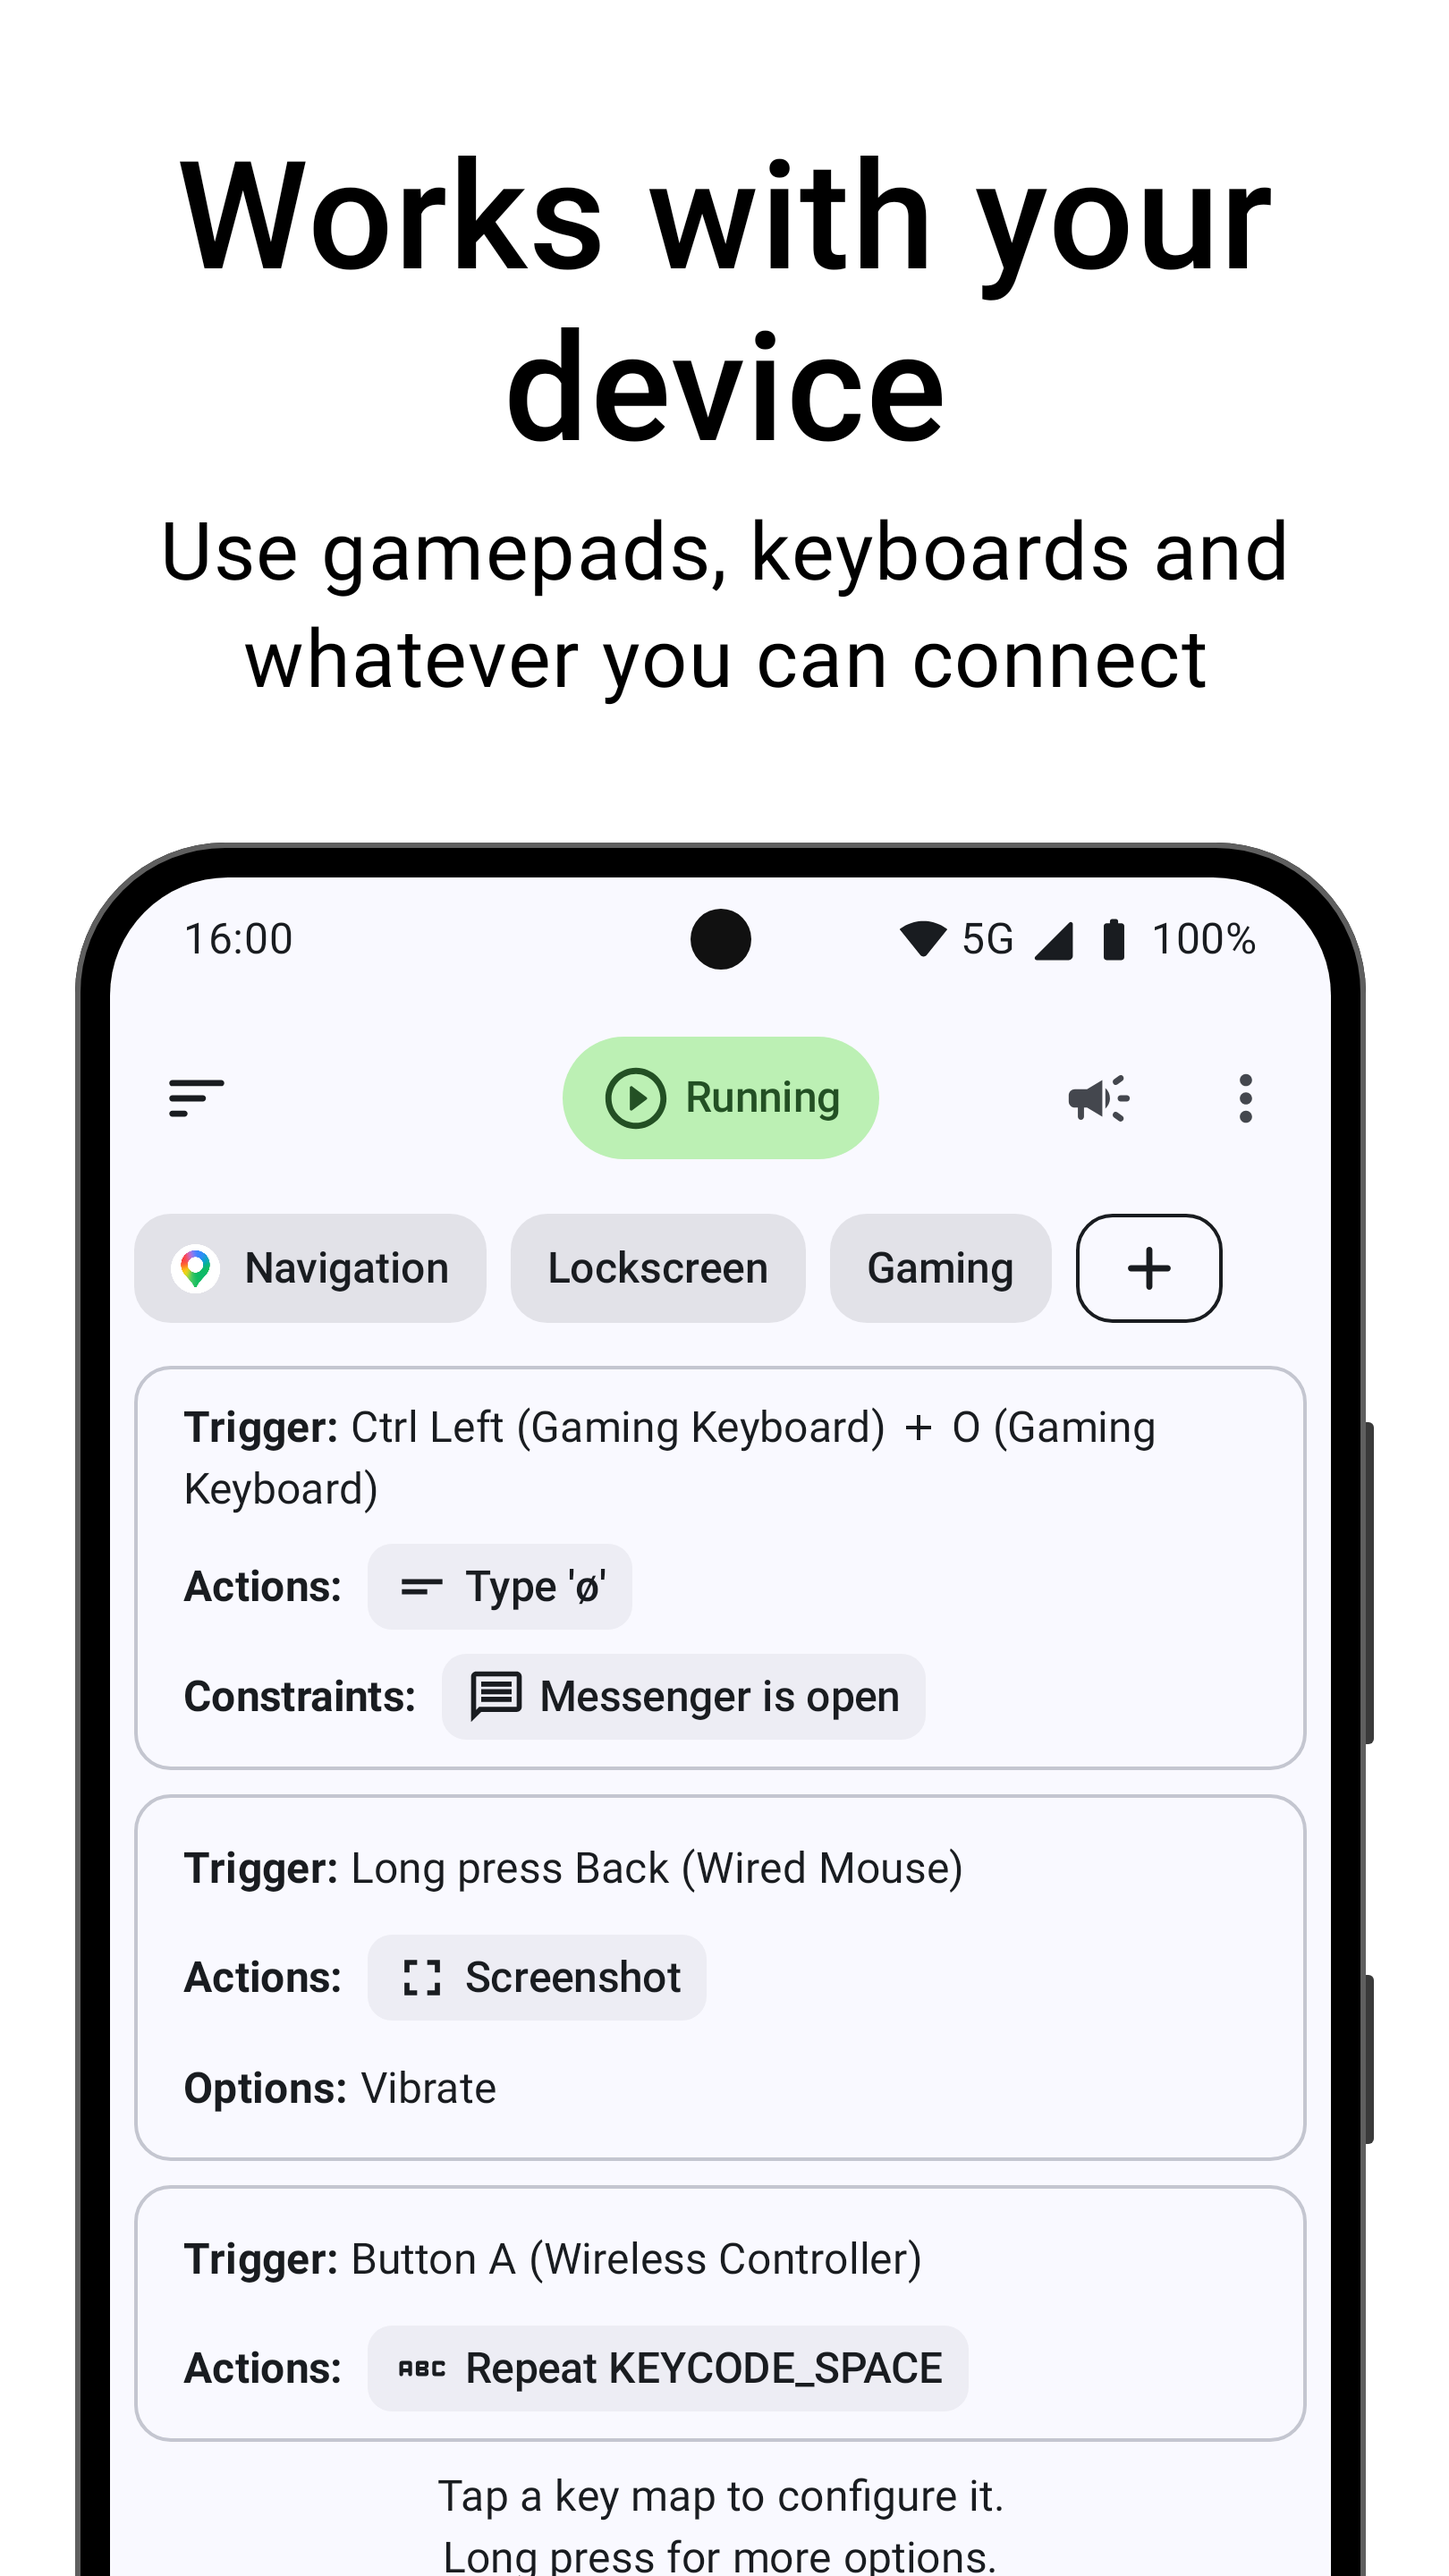
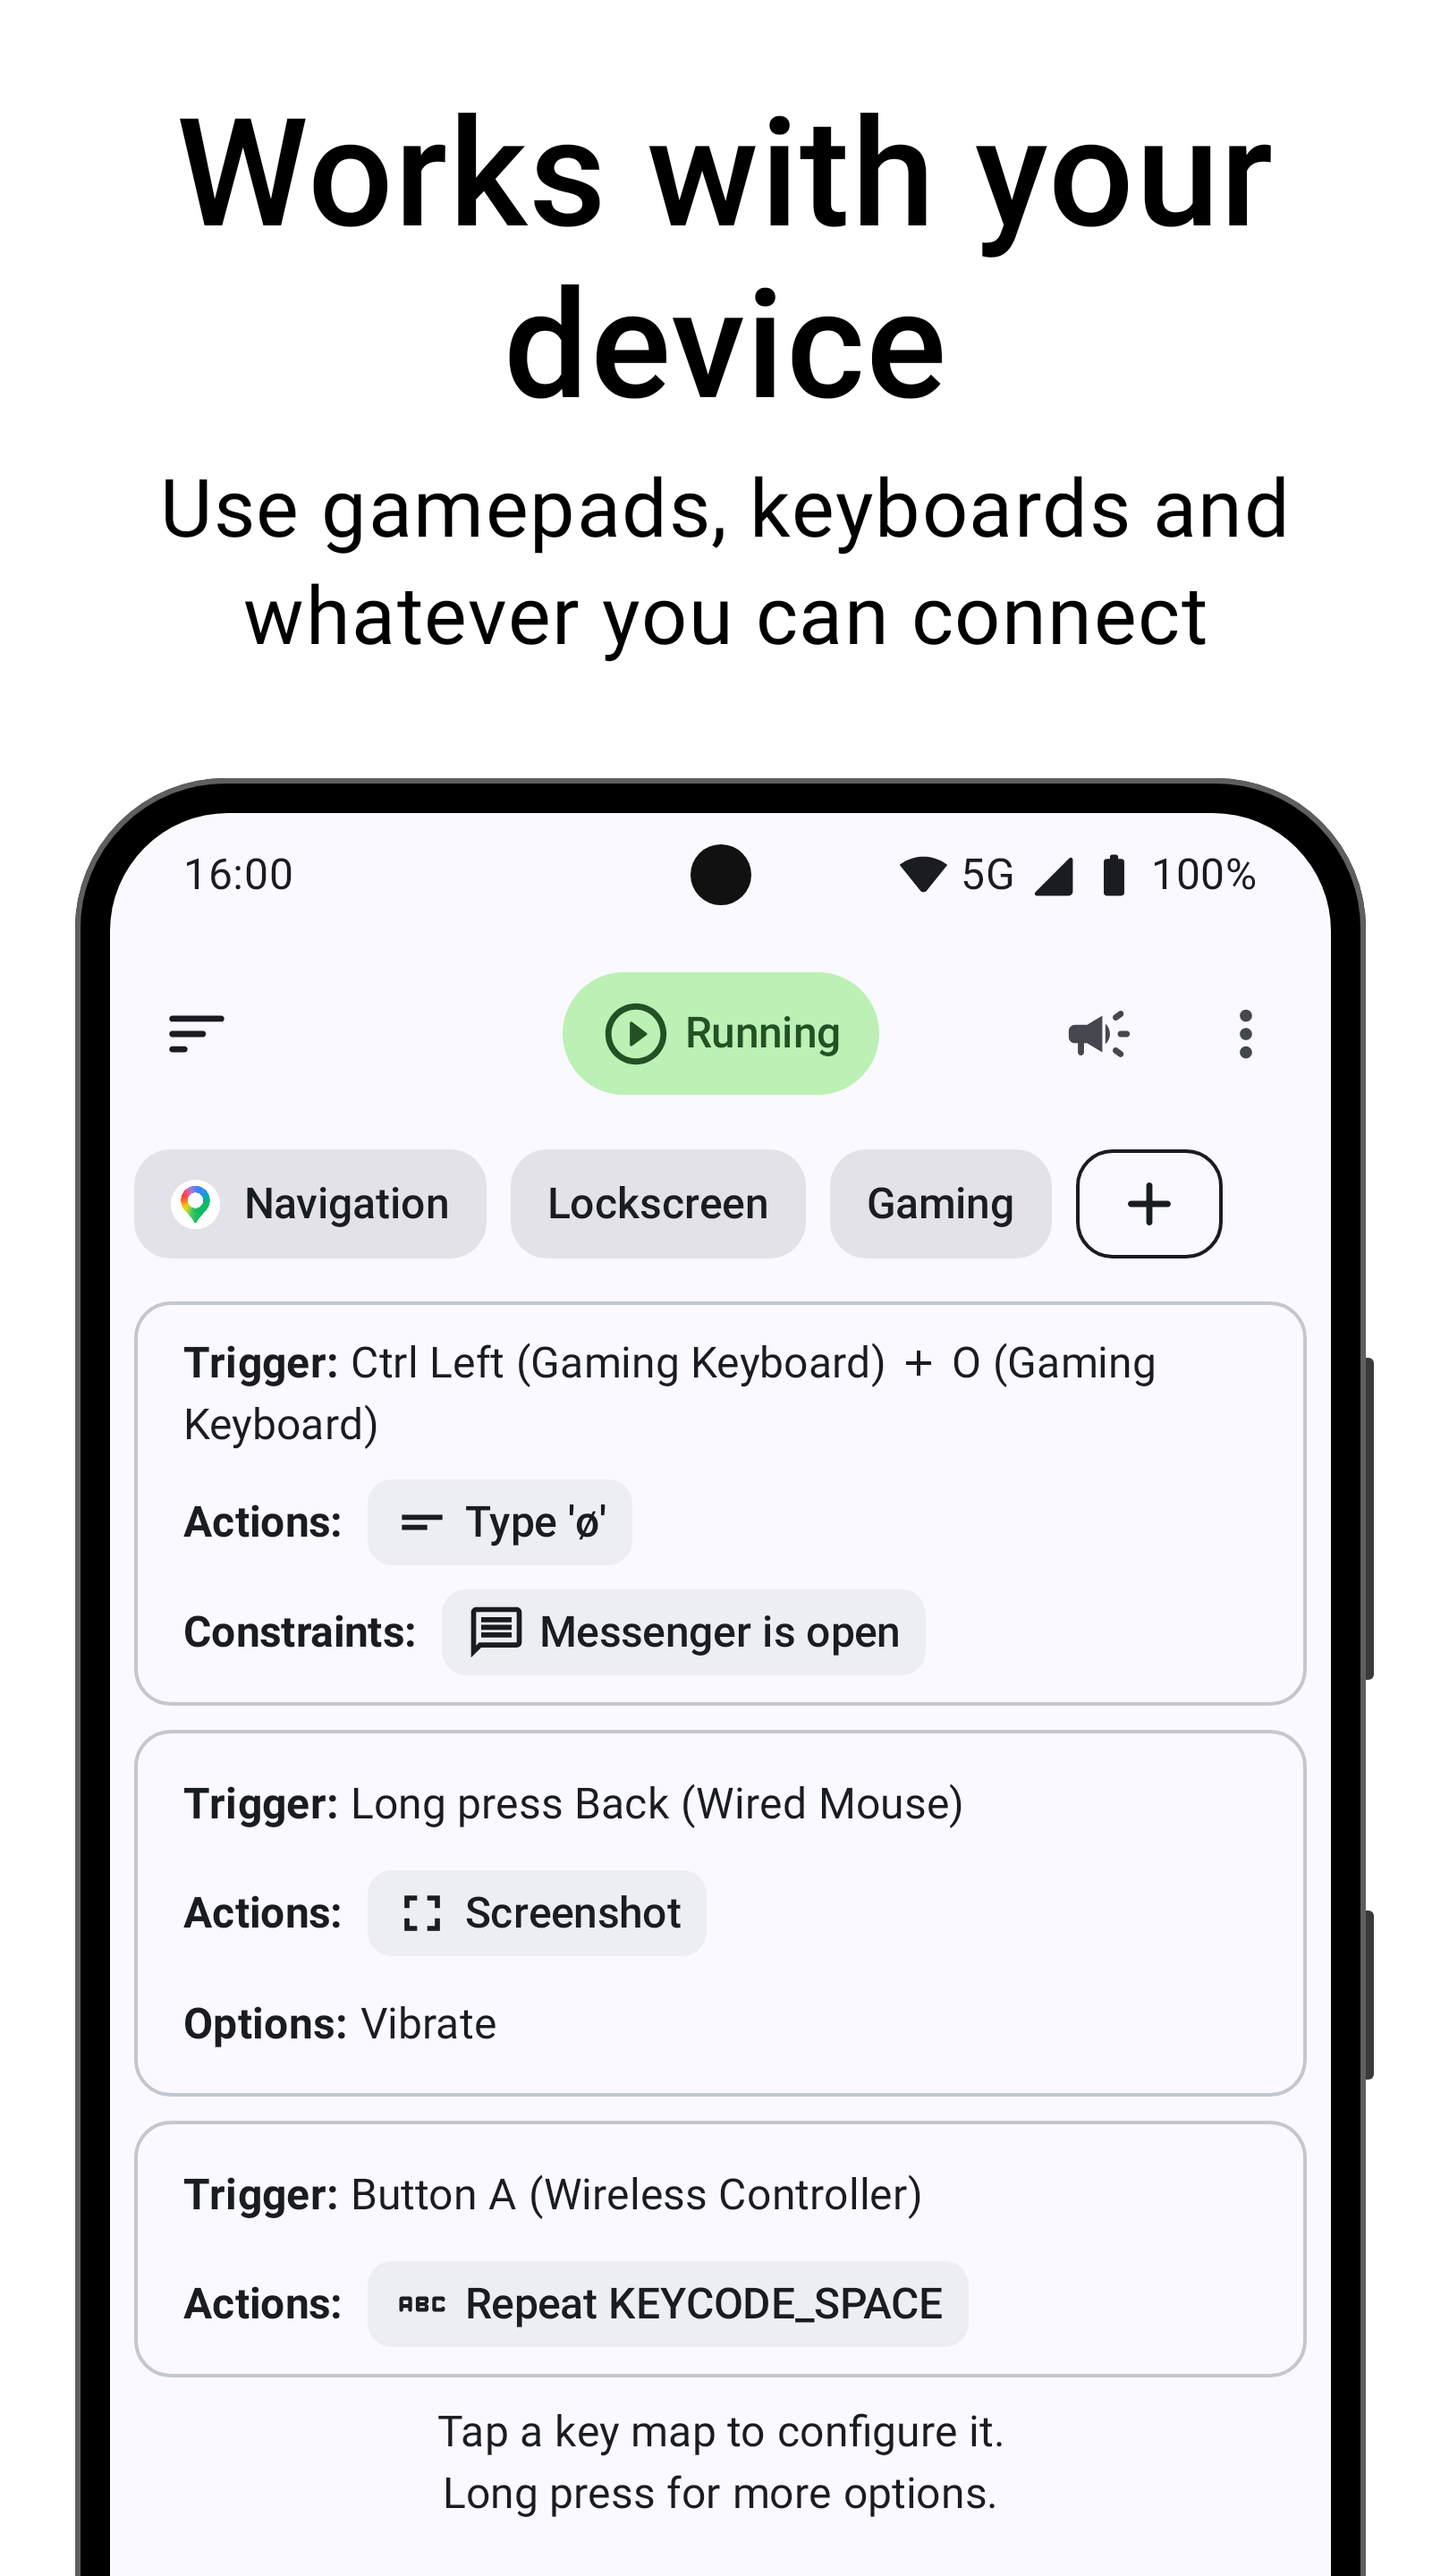
#2277 update screenshots

diff --git a/screenshots/src/test/java/io/github/sds100/keymapper/screenshots/Screenshot1.kt b/screenshots/src/test/java/io/github/sds100/keymapper/screenshots/Screenshot1.kt
@@ -2,7 +2,6 @@ package io.github.sds100.keymapper.screenshots
 
 import androidx.compose.material.icons.Icons
 import androidx.compose.material.icons.outlined.BluetoothConnected
-import androidx.compose.material.icons.outlined.BrightnessHigh
 import androidx.compose.material.icons.outlined.Call
 import androidx.compose.material.icons.outlined.RingVolume
 import androidx.compose.material3.ExperimentalMaterial3Api
@@ -73,7 +72,6 @@ class Screenshot1 {
                     triggerKeys = listOf("Side key/power button"),
                     actions = listOf(
                         chip("Driving", maps),
-                        chip("Increase display brightness", Icons.Outlined.BrightnessHigh),
                     ),
                 ),
             )

diff --git a/screenshots/src/test/java/io/github/sds100/keymapper/screenshots/StoreScreenshotFrame.kt b/screenshots/src/test/java/io/github/sds100/keymapper/screenshots/StoreScreenshotFrame.kt
@@ -65,7 +65,7 @@ fun StoreScreenshotFrame(
         modifier = modifier
             .fillMaxSize()
             .background(Color.White)
-            .padding(top = 48.dp),
+            .padding(top = 32.dp),
         horizontalAlignment = Alignment.CenterHorizontally,
     ) {
         Text(
@@ -87,7 +87,7 @@ fun StoreScreenshotFrame(
             textAlign = TextAlign.Center,
         )
 
-        Spacer(Modifier.height(40.dp))
+        Spacer(Modifier.height(32.dp))
 
         // The phone is taller than the remaining space so it bleeds off the bottom.
         Box(
